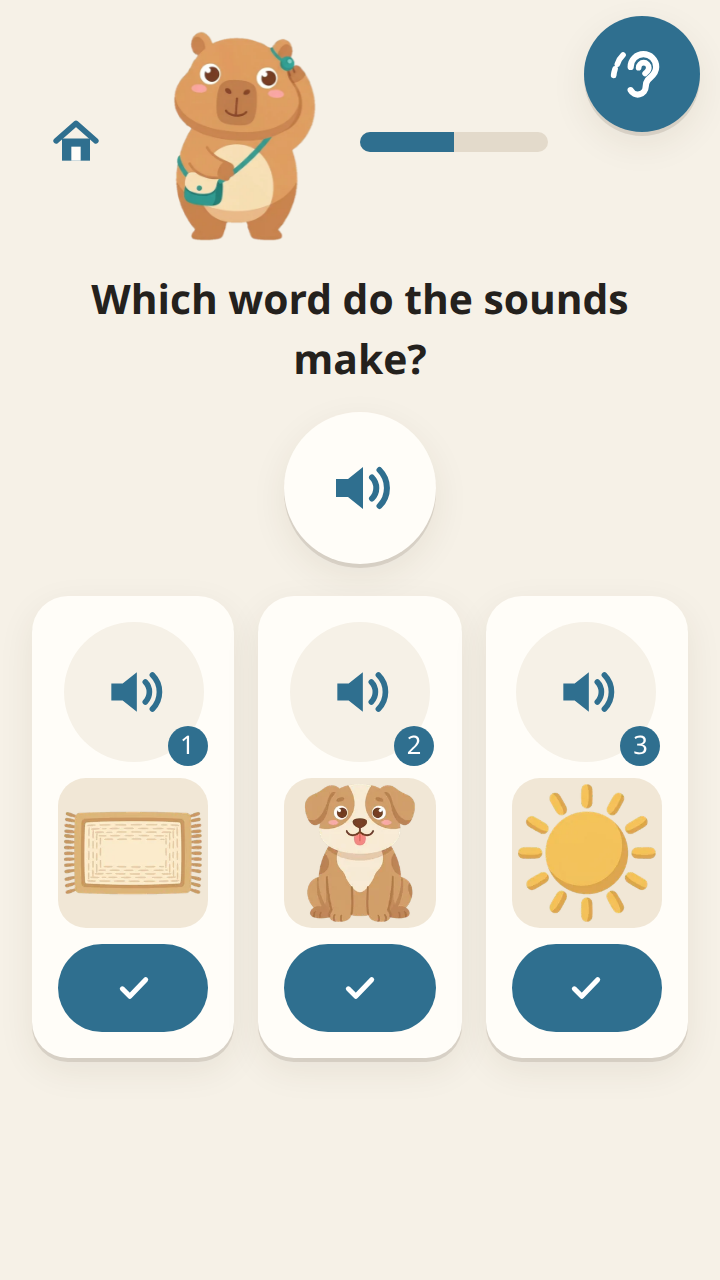
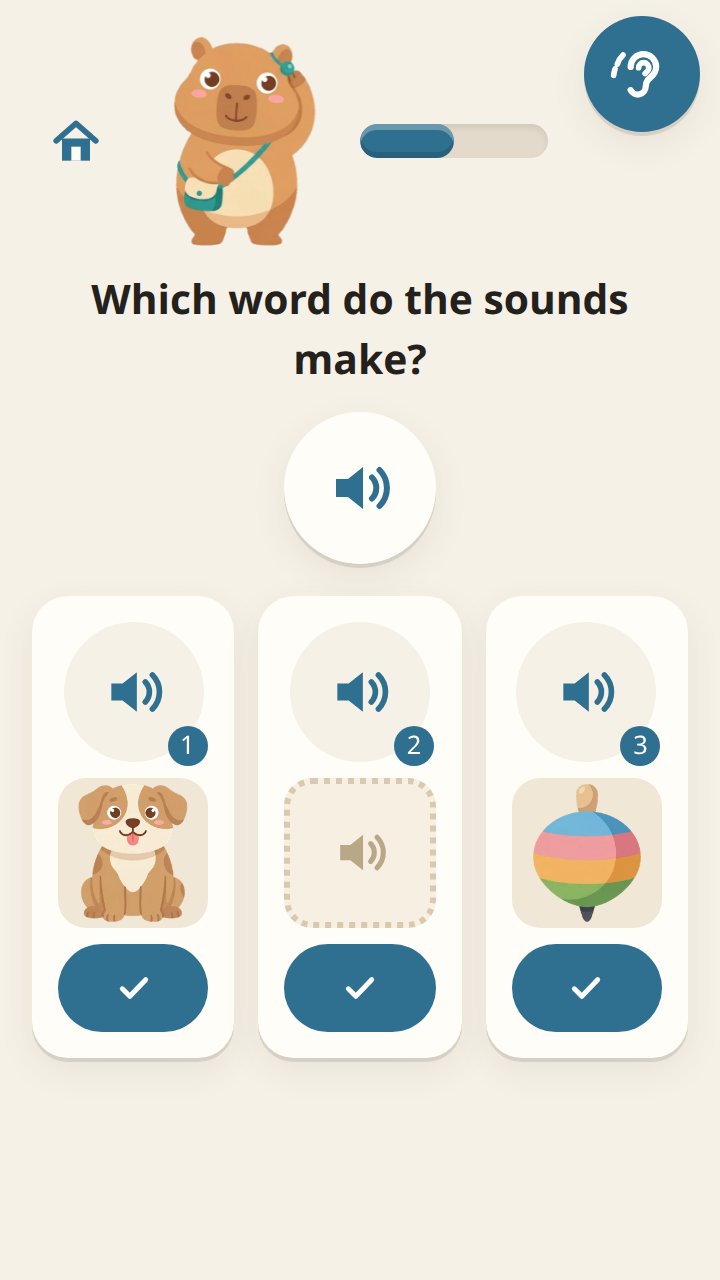
Tilo round 3: dimmed answer cards while speaking, speech bubble, chunky progress bar, correct-answer cheer

diff --git a/app/src/style.css b/app/src/style.css
@@ -66,9 +66,9 @@ h1 { font-size: 1.7rem; margin: .4em 0 .2em; } h2 { font-size: 1.3rem; margin: .
 
 /* sitting */
 .sitting { display: flex; flex-direction: column; min-height: 100dvh; }
-header.hdr { display: flex; align-items: center; gap: 12px; padding: 12px 0; }
+header.hdr { position: relative; display: flex; align-items: center; gap: 12px; padding: 12px 0; }
 .close { width: 44px; height: 44px; border-radius: 50%; border: 0; background: transparent; font-size: 1.8rem; color: var(--muted); }
-.progress { flex: 1; height: 10px; background: var(--line); border-radius: 99px; overflow: hidden; } .progress i { display: block; height: 100%; width: 0; background: var(--accent); transition: width .4s; }
+.progress { flex: 1; height: 17px; background: var(--line); border-radius: 99px; overflow: hidden; box-shadow: inset 0 2px 3px rgba(0,0,0,.08); } .progress i { display: block; height: 100%; width: 0; background: var(--accent); border-radius: 99px; transition: width .4s; box-shadow: inset 0 -3px 0 rgba(0,0,0,.12), inset 0 3px 0 rgba(255,255,255,.28); }
 .speaker.hdr { width: 44px; height: 44px; } .speaker.hdr svg { width: 22px; height: 22px; }
 .stage { flex: 1; } .screen { display: flex; flex-direction: column; align-items: center; }
 .foot { display: flex; gap: 10px; justify-content: center; padding: 14px 0 6px; }
@@ -202,7 +202,7 @@ header.hdr, .homehdr { padding-right: 70px; }   /* keeps the row clear of the fi
 /* pictures: real art, fixed size so the card never resizes between screens */
 .picture img { width: 100%; aspect-ratio: 1; height: auto; display: block; border-radius: 14px; background: #f1e7d6; }
 .pics.one { width: min(168px, 100%); max-width: none; } .pics.one .picture { width: 100%; }
-.options.pending { visibility: hidden; }   /* cards stay mounted (same space) while the voice speaks */
+.options.pending { opacity: .45; pointer-events: none; }   /* cards stay visible but dimmed and inert (same space, no reflow) while the voice speaks */
 /* focus rings only for keyboard use, never after a tap or on load */
 button:focus:not(:focus-visible), a:focus:not(:focus-visible) { outline: none; }
 .l1-opts .opt .picture { width: 100%; max-width: 120px; }
@@ -215,3 +215,17 @@ button:focus:not(:focus-visible), a:focus:not(:focus-visible) { outline: none; }
 .pics.scene { max-width: 190px; margin: 14px auto 0; } .pics.scene .picture { width: 100%; }
 @media (max-height: 700px) { .pics.scene { max-width: 170px; margin-top: 8px; } }
 @media (max-height: 700px) { .picture-gap { max-width: 96px; } }
+
+/* Tilo's speech bubble (Track A only): hangs under the progress bar, right of the header Tilo, never over the cards or the ear button */
+.tilo-bubble { position: absolute; left: 112px; top: 86px; width: max-content; max-width: calc(100% - 116px); white-space: nowrap; text-overflow: ellipsis; z-index: 5; background: #fff; color: var(--ink, #2b2620); border: 2px solid #ead9b8; border-radius: 18px; padding: 4px 11px; font-size: .84rem; font-weight: 650; line-height: 1.25; box-shadow: var(--shadow); pointer-events: none; opacity: 0; transform: translateY(-4px) scale(.96); transform-origin: 0 0; transition: opacity .18s, transform .18s;  overflow: hidden; }
+.tilo-bubble.on { opacity: 1; transform: none; }
+.tilo-bubble::before { content: ''; position: absolute; left: -9px; top: 7px; width: 14px; height: 14px; background: #fff; border-left: 2px solid #ead9b8; border-bottom: 2px solid #ead9b8; transform: rotate(45deg); border-radius: 0 0 0 4px; }
+.track-B .tilo-bubble { display: none; }
+/* a small celebration on a correct card: a bounce plus a ring of sparkles (CSS only) */
+.opt.right { animation: opt-cheer .55s ease-out; position: relative; }
+.opt.right::before, .opt.right::after { content: ''; position: absolute; left: 50%; top: 40%; width: 8px; height: 8px; border-radius: 50%; pointer-events: none; opacity: 0; background: #ffd24a; box-shadow: -34px -22px 0 #ff8fa3, 34px -26px 0 #7fd1a0, -42px 6px 0 #8ec5ff, 40px 8px 0 #ffd24a, -16px -40px 0 #7fd1a0, 18px -42px 0 #ff8fa3; animation: opt-spark .7s ease-out; }
+.opt.right::after { transform: rotate(35deg) scale(.7); animation-delay: .08s; }
+@keyframes opt-cheer { 0% { transform: scale(1); } 35% { transform: scale(1.06) translateY(-4px); } 100% { transform: scale(1); } }
+@keyframes opt-spark { 0% { opacity: 1; transform: scale(.3); } 70% { opacity: 1; } 100% { opacity: 0; transform: scale(1.5) translateY(-8px); } }
+@media (prefers-reduced-motion: reduce) { .opt.right, .opt.right::before, .opt.right::after { animation: none; } .opt.right::before, .opt.right::after { display: none; } .tilo-bubble { transition: none; } }
+.ghost-pick svg { width: 22px; height: 22px; } .ghost-pick { display: grid; place-items: center; border-radius: 99px; background: var(--accent); color: #fff; padding: 9px 14px; font-weight: 650; width: 100%; min-height: 44px; box-sizing: border-box; }

diff --git a/app/src/tilo.js b/app/src/tilo.js
@@ -15,7 +15,7 @@ const FLAP = ['mid', 'aaa', 'mid', 'mmm', 'aaa', 'mid'];   // no 'ooo': a round 
 const reduced = () => !!window.matchMedia?.('(prefers-reduced-motion: reduce)').matches;
 
 const st = { homeHost: null, track: null, mood: 'idle', emote: null, emoteKey: null, pinned: null, speaking: false, mouth: 'mid', offT: 0, emoteT: 0, flapT: 0, host: null };
-let el = null, stage = null; const bodies = {}, mouths = {};
+let el = null, stage = null, bubble = null; const bodies = {}, mouths = {};
 
 function img(src, cls) { const i = new Image(); i.className = cls; i.alt = ''; i.decoding = 'async'; i.src = BASE + src; return i; }
 
@@ -33,6 +33,7 @@ function build() {
     mouths[name] = i; stage.append(i);
   }
   el.append(stage); document.body.append(el);
+  bubble = document.createElement('div'); bubble.className = 'tilo-bubble'; bubble.setAttribute('aria-hidden', 'true');
   bus.addEventListener('start', e => onStart(e.detail?.key));
   bus.addEventListener('end', e => onEnd(e.detail?.key));
 }
@@ -55,6 +56,23 @@ function render() {
   for (const [n, m] of Object.entries(mouths)) m.hidden = !(talking && n === st.mouth);
   if (was && was !== p && !reduced()) { el.classList.remove('pop'); void el.offsetWidth; el.classList.add('pop'); }
   if (talking) startFlap(); else stopFlap();
+  renderBubble(talking && st.uiKey);
+}
+
+// Speech bubble (Track A): shows the short prompt on screen while a spoken instruction plays; hidden otherwise.
+const SHORT = { 'what sound does it start with?': 'First sound?', 'which word do the sounds make?': 'Which word?', 'how many sounds?': 'How many sounds?' };
+function bubbleText() {
+  const src = document.querySelector('.stage .screen h2, .stage .screen .prompt');
+  const t = (src?.textContent || '').trim();
+  if (SHORT[t.toLowerCase()]) return SHORT[t.toLowerCase()];
+  return t.length > 26 ? t.slice(0, 24).replace(/\s+\S*$/, '') + '…' : t;
+}
+function renderBubble(on) {
+  if (!bubble) return;
+  const hdr = st.host?.closest?.('header.hdr') || null;
+  const text = on && st.track === 'A' && hdr ? bubbleText() : '';
+  if (text) { if (bubble.parentNode !== hdr) hdr.append(bubble); bubble.textContent = text; bubble.classList.add('on'); }
+  else bubble.classList.remove('on');
 }
 
 function startFlap() {
@@ -75,7 +93,7 @@ function onStart(key) {
   clearTimeout(st.offT);
   if (st.emote && key === st.emoteKey) { clearTimeout(st.emoteT); render(); return; }   // the praise / "not quite" clip itself: show the emotion, no flap
   if (st.emote) { clearTimeout(st.emoteT); st.emote = null; st.emoteKey = null; }          // a different clip follows: the voice talks again
-  st.speaking = true; render();
+  st.uiKey = typeof key === 'string' && key.startsWith('ui:'); st.speaking = true; render();
 }
 function onEnd(key) {
   if (st.emote && key === st.emoteKey) { clearTimeout(st.emoteT); st.emoteT = setTimeout(() => { st.emote = null; st.emoteKey = null; render(); }, 1100); return; }
@@ -89,7 +107,7 @@ export const tilo = {
   // a new screen: back in the corner, calm, nothing pinned
   screen() {
     if (!el) build();
-    st.mood = 'idle'; st.emote = null; st.emoteKey = null; st.pinned = null; clearTimeout(st.emoteT);
+    st.uiKey = false; st.mood = 'idle'; st.emote = null; st.emoteKey = null; st.pinned = null; clearTimeout(st.emoteT);
     tilo.dock(st.homeHost && st.homeHost.isConnected ? st.homeHost : null); render();
   },
   // a persistent spot for this screen group (the sitting header); mount() clears it

diff --git a/app/src/screens/l1oral.js b/app/src/screens/l1oral.js
@@ -51,6 +51,12 @@ async function segment(ctx, w) {
   await ctx.record(`oral:count:${w}`, 'oral', r);
 }
 
+// A dimmed, inert preview of the answer cards under a worked example, so the lower part of the screen is never empty while the teacher talks.
+function ghostCards(s, body) {
+  const row = h('div', { class: 'options l1-opts three pending ghost', 'aria-hidden': 'true' }, ...[0, 1, 2].map(i => h('div', { class: 'opt' }, body(i), h('span', { class: 'opt-pick ghost-pick', html: ICON.check }))));
+  row.inert = true; s.append(row);
+}
+
 // Model before ask: one worked item (on a word that is NOT in the real items) before the first real item of a type.
 async function worked(ctx, type) {
   const s = stageFor(ctx, type === 'first' ? 'oral-first' : type === 'count' ? 'oral-count' : 'oral-blend');
@@ -58,14 +64,17 @@ async function worked(ctx, type) {
     const w = 'pig', n = entry(w).p.length;
     const dots = h('div', { class: 'dots big' }, ...Array.from({ length: n }, () => h('i')));
     s.append(h('h2', {}, 'How many sounds?'), speaker(`w:${w}`, { big: true, label: 'Hear the word' }), dots);
+    ghostCards(s, i => h('div', { class: 'dots' }, ...Array.from({ length: i + 2 }, () => h('i', { class: 'on' }))));
     mark('oral-demo', { type });
     await ctx.instruct(['ui:letsDoOne'], { stim: async () => { if ((await play(`w:${w}`)) === false) return false; await wait(300); for (let i = 0; i < n; i++) { dots.children[i].classList.add('on'); if ((await play(`ph:${entry(w).p[i]}`)) === false) return false; await wait(300); } return teacher.say('ui:yourTurn'); }, nudge: 'ui:idleTap' });
   } else if (type === 'first') {
     s.append(h('h2', {}, 'What sound does it start with?'), ...(pic('sock', 0) ? [h('div', { class: 'pics one' }, pic('sock', 0))] : []), speaker('w:sock', { big: true, label: 'Hear the word' }));
+    ghostCards(s, () => h('div', { class: 'picture-gap', html: ICON.speaker }));
     mark('oral-demo', { type });
     await ctx.instruct(['ui:letsDoOne', 'w:sock', 'ph:s', 'ui:yourTurn'], { nudge: 'ui:idleTap' });
   } else {
     s.append(h('h2', {}, 'Which word do the sounds make?'), speaker(null, { big: true, label: 'Hear the sounds', onplay: () => sounds(ph('dog')) }));
+    ghostCards(s, () => h('div', { class: 'picture-gap', html: ICON.speaker }));
     mark('oral-demo', { type });
     await ctx.instruct(['ui:letsDoOne'], { stim: async () => { if ((await sounds(ph('dog'))) === false) return false; await wait(300); await play('w:dog'); return teacher.say('ui:yourTurn'); }, nudge: 'ui:idleTap' });
   }

diff --git a/app/src/screens/l1steps.js b/app/src/screens/l1steps.js
@@ -44,13 +44,13 @@ export function choice(stage, cards, { test = false, autoplay = true, cls = 'two
     });
     return el;
   });
-  row.append(...els); row.classList.add('pending');
+  row.append(...els); row.classList.add('pending'); row.inert = true; row.setAttribute('aria-disabled', 'true');
   stage.append(row);
   const hearAll = async () => { for (const [i, c] of cards.entries()) if (c.key) { els[i].classList.add('hl'); const ok = await play(c.key); els[i].classList.remove('hl'); if (ok === false) return false; await wait(200); } return true; };
   const pointRight = () => teacher.point(els.find(x => x.dataset.ok)?.querySelector('.opt-pick'));
   // a stall in a TEACHING item points at the right card after the re-prompt; in a test it only nudges (no pointing)
   const start = async () => {
-    row.classList.remove('pending');
+    row.classList.remove('pending'); row.inert = false; row.removeAttribute('aria-disabled');
     teacher.setIdle({ nudge: 'ui:idlePick', hint: test ? null : pointRight });
     if (autoplay) await hearAll();
     els.forEach(x => x.querySelector('.opt-pick').disabled = false);
